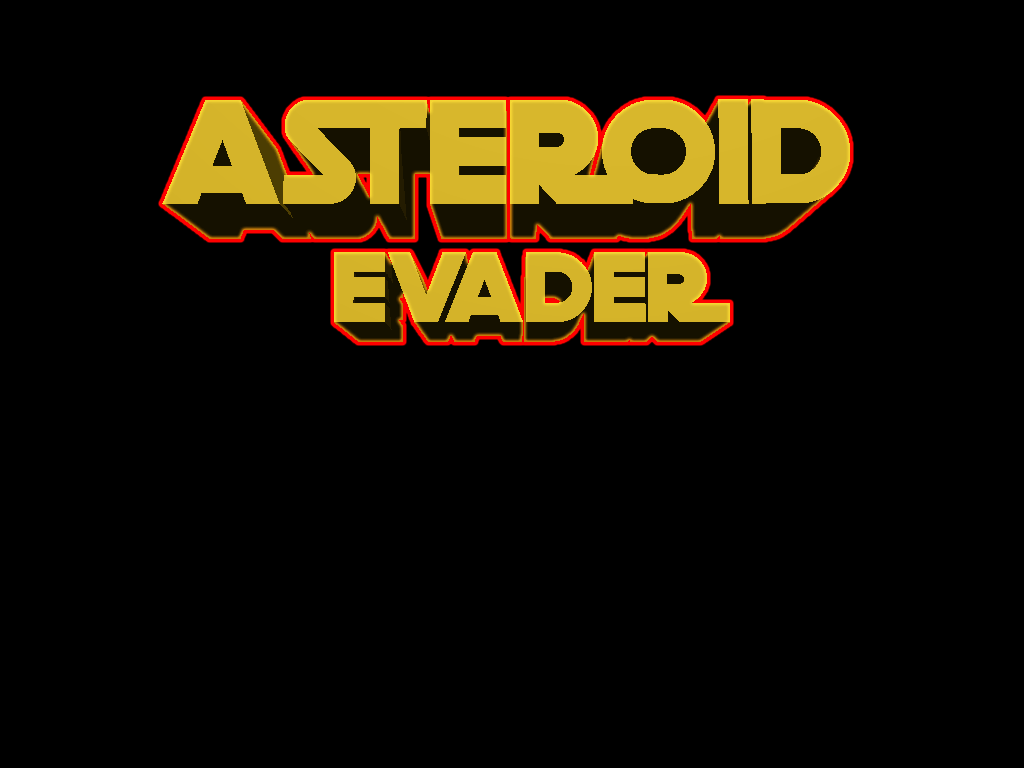
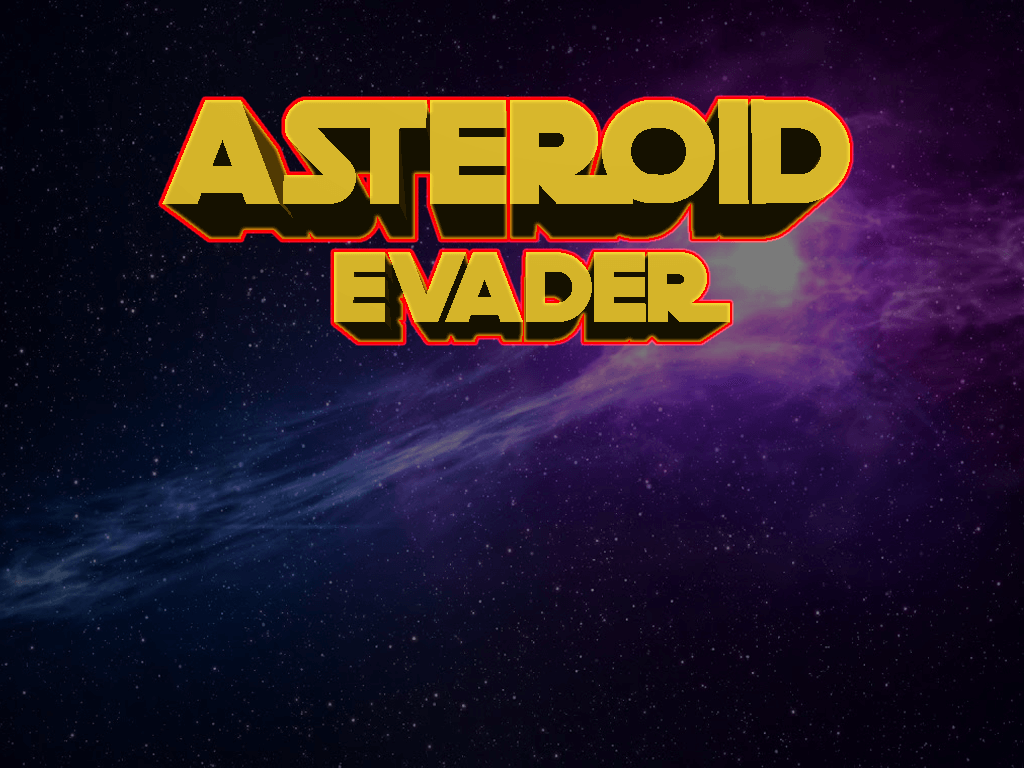
Changed menus to use input manager, added textures per level, added pause menu functionalities

diff --git a/common/application_mode_pause_menu.cpp b/common/application_mode_pause_menu.cpp
@@ -1,61 +1,96 @@
 #include "stdafx.h"
 #include "application_mode_pause_menu.h"
 #include "application_manager.h"
+#include "language_manager.h"
 #include "globals.h"
-ApplicationModePauseMenu::ApplicationModePauseMenu() {
-	texWin = CORE_LoadPNG("../data/main_menu.png", false);
 
+#define MARGIN 35;
+
+ApplicationModePauseMenu::ApplicationModePauseMenu() {
+	texWin = CORE_LoadPNG("../data/pause.png", false);
+	texMark = CORE_LoadPNG("../data/mark.png", false);
+	insertOption("MENU_RESUME", MODE_GAME); 
+	insertOption("MENU_MAIN_MENU", MODE_NULL);
+
+	optionSelected = 0;
 }
 
+void ApplicationModePauseMenu::insertOption(const char* name, appModeId mode)
+{
+
+	if (options.size() > 0)
+	{
+		int newId = options.size();
+		Option newOption(newId, name, mode);
+		options.push_back(newOption);
+	}
+	else
+	{
+		Option newOption(0, name, mode);
+		options.push_back(newOption);
+
+	}
+}
 
 void ApplicationModePauseMenu::render() {
 	// Render
-
 	//glClear(GL_COLOR_BUFFER_BIT);
 
-	// Render Player
-	//CORE_RenderCenteredRotatedSprite(vmake(SCR_WIDTH / 2, SCR_HEIGHT / 2), vmake(SCR_WIDTH, SCR_HEIGHT), 0, texWin);
-	FONT_DrawString(vmake(SCR_WIDTH / 2 - 5 * 16, SCR_HEIGHT / 2 - 25), "PAUSED! PRESS E TO RESUME");
-	/*FONT_DrawString(vmake(SCR_WIDTH / 2 - 5 * 16, SCR_HEIGHT / 2 - 50), "LANGUAGE     (E)");
-	FONT_DrawString(vmake(SCR_WIDTH / 2 - 5 * 16, SCR_HEIGHT / 2 - 75), "BACK         (B)");*/
+	CORE_RenderCenteredRotatedSprite(vmake(SCR_WIDTH / 2, SCR_HEIGHT / 2.25), vmake(SCR_WIDTH/2, SCR_HEIGHT/3), 0, texWin);
+	int pos = MARGIN;
+	int posMark = pos - 7 + optionSelected * MARGIN;
+
+	for (auto optionIt = options.begin(); optionIt != options.end(); ++optionIt) {
+		FONT_DrawString(vmake(SCR_WIDTH / 2 - 5 * 16, SCR_HEIGHT / 2 - pos), languageManager->getString((*optionIt).name));
+		pos += MARGIN;
+	}
+	CORE_RenderCenteredSprite(vmake(SCR_WIDTH / 2 - 6 * 16, SCR_HEIGHT / 2 - posMark), vmake(15, 15), texMark);
+
 	SYS_Show();
 
 
 }
 
-
 void ApplicationModePauseMenu::receiveMessage(Message *msg) {
 	UpMessage *upMsg = dynamic_cast<UpMessage*>(msg);
 	if (upMsg) {
 		if (upMsg->up) {
-			OutputDebugStringA("UP!");
+			optionSelected--;
+			if (optionSelected < 0)
+				optionSelected = 0;
 		}
 	}
 
 	DownMessage *downMsg = dynamic_cast<DownMessage*>(msg);
 	if (downMsg) {
 		if (downMsg->down) {
-			OutputDebugStringA("DOWN!");
+			optionSelected++;
+			if (optionSelected >= options.size())
+				optionSelected = options.size() - 1;
 		}
 	}
 
-	Message *msg_rec = dynamic_cast<AMessage*>(msg);
+	Message *msg_rec = dynamic_cast<ReturnMessage*>(msg);
 	if (msg_rec) {
+		OutputDebugStringA("Return!");
+		//Execute Option Selected!
+		if (options[optionSelected].modeId != MODE_NULL) {
+			
+			appManager->switchMode(options[optionSelected].modeId);
+		}
+		else
+		{
+			if (strcmp(options[optionSelected].name, "MENU_MAIN_MENU") == 0) 
+			{
+				appManager->notPaused();
+				appManager->killGame();
+				appManager->switchMode(MODE_MAIN_MENU);
+			}
 				
+		}
+
 	}
 
-	msg_rec = dynamic_cast<EMessage*>(msg);
-	if (msg_rec) {
-		OutputDebugStringA("Resumed!");
-		appManager->switchMode(MODE_GAME);
-	}
-
-	msg_rec = dynamic_cast<BMessage*>(msg);
-	if (msg_rec) {
-		appManager->switchMode(MODE_MAIN_MENU);
-	}
-
-
-	
 
 }
+

diff --git a/common/application_mode_main_menu.cpp b/common/application_mode_main_menu.cpp
@@ -48,11 +48,6 @@ void ApplicationModeMainMenu::render() {
 		FONT_DrawString(vmake(SCR_WIDTH / 2 - 5 * 16, SCR_HEIGHT / 2 - pos), languageManager->getString((*optionIt).name));
 		pos += MARGIN;
 	}
-	/*FONT_DrawString(vmake(SCR_WIDTH / 2 - 5 * 16, SCR_HEIGHT / 2 - 25), languageManager->getString("MENU_PLAY"));
-	FONT_DrawString(vmake(SCR_WIDTH / 2 - 5 * 16, SCR_HEIGHT / 2 - 50), languageManager->getString("MENU_OPTIONS"));
-	FONT_DrawString(vmake(SCR_WIDTH / 2 - 5 * 16, SCR_HEIGHT / 2 - 75), languageManager->getString("MENU_LEVELS"));
-	FONT_DrawString(vmake(SCR_WIDTH / 2 - 5 * 16, SCR_HEIGHT / 2 - 125),languageManager->getString("MENU_QUIT"));*/
-
 	CORE_RenderCenteredSprite(vmake(SCR_WIDTH / 2 - 6 * 16 , SCR_HEIGHT / 2 - posMark), vmake(15, 15), texMark);
 	SYS_Show();
 
@@ -82,8 +77,9 @@ void ApplicationModeMainMenu::receiveMessage(Message *msg) {
 	if (msg_rec) {
 		OutputDebugStringA("Return!");
 		//Execute Option Selected!
-		if (options[optionSelected].modeId != MODE_NULL)
+		if (options[optionSelected].modeId != MODE_NULL) {
 			appManager->switchMode(options[optionSelected].modeId);
+		}
 		else
 		{
 			if (strcmp(options[optionSelected].name, "MENU_QUIT") == 0)
@@ -92,25 +88,5 @@ void ApplicationModeMainMenu::receiveMessage(Message *msg) {
 
 	}
 
-	/*Message *msg_rec = dynamic_cast<PMessage*>(msg);
-	if (msg_rec) {
-		appManager->switchMode(MODE_GAME);
-	}*/
-
-	/*msg_rec = dynamic_cast<OMessage*>(msg);
-	if (msg_rec) {
-		appManager->switchMode(MODE_OPTION_MENU);
-	}
-
-	msg_rec = dynamic_cast<LMessage*>(msg);
-	if (msg_rec) {
-		appManager->switchMode(MODE_LEVEL_MENU);
-	}
-
-	msg_rec = dynamic_cast<QMessage*>(msg);
-	if (msg_rec) {
-		exit(0);
-	}*/
-	
 
 }

diff --git a/common/application_mode_win.cpp b/common/application_mode_win.cpp
@@ -1,6 +1,7 @@
 #include "stdafx.h"
 #include "application_mode_win.h"
 #include "application_manager.h"
+#include "language_manager.h"
 #include "globals.h"
 ApplicationModeWin::ApplicationModeWin() {
 	texWin = CORE_LoadPNG("../data/game_win.png", false);
@@ -14,21 +15,28 @@ void ApplicationModeWin::render() {
 
 	// Render Player
 	CORE_RenderCenteredRotatedSprite(vmake(SCR_WIDTH / 2, SCR_HEIGHT / 2), vmake(SCR_WIDTH, SCR_HEIGHT), 0, texWin);
+	FONT_DrawString(vmake(SCR_WIDTH / 2 - 15 * 16, SCR_HEIGHT / 2 - 250), languageManager->getString("MENU_NEXT_LEVEL"));
 
 	SYS_Show();
 
 
 }
 
-void ApplicationModeWin::processInput() {
-	if (SYS_KeyPressed(VK_RETURN)) {
+void ApplicationModeWin::receiveMessage(Message *msg) {
 
+
+	Message *msg_rec = dynamic_cast<ReturnMessage*>(msg);
+	if (msg_rec) {
 		appManager->nextLevel();
-		if(appManager->getLevel() < appManager->getLevelAmount())
+		if (appManager->getLevel() < appManager->getLevelAmount())
 			appManager->switchMode(MODE_GAME);
 		else
 			appManager->switchMode(MODE_MAIN_MENU);
+
 	}
 
 
+
+
 }
+

diff --git a/common/application_mode_gameover.cpp b/common/application_mode_gameover.cpp
@@ -1,6 +1,7 @@
 #include "stdafx.h"
 #include "application_mode_gameover.h"
 #include "application_manager.h"
+#include "language_manager.h"
 #include "globals.h"
 ApplicationModeGameOver::ApplicationModeGameOver() {
 	texGameOver = CORE_LoadPNG("../data/game_over_2.png", false);
@@ -14,16 +15,25 @@ void ApplicationModeGameOver::render() {
 
 	// Render Player
 	CORE_RenderCenteredRotatedSprite(vmake(SCR_WIDTH/2,SCR_HEIGHT/2), vmake(SCR_WIDTH , SCR_HEIGHT ),0 , texGameOver);
+	FONT_DrawString(vmake(SCR_WIDTH / 2 - 15 * 16, SCR_HEIGHT / 2 - 100), languageManager->getString("MENU_RESTART"));
 
 	SYS_Show();		
 	
 
 }
 
-void ApplicationModeGameOver::processInput() {
-	if (SYS_KeyPressed(VK_RETURN)) {
+void ApplicationModeGameOver::receiveMessage(Message *msg) {
+	
+
+	Message *msg_rec = dynamic_cast<ReturnMessage*>(msg);
+	if (msg_rec) {
+		OutputDebugStringA("Return!");
+		//Execute Option Selected!
 		appManager->switchMode(MODE_GAME);
+		
 	}
+
+
 
 
 }

diff --git a/common/application_mode_option_menu.cpp b/common/application_mode_option_menu.cpp
@@ -9,6 +9,8 @@
 ApplicationModeOptionMenu::ApplicationModeOptionMenu() {
 	texWin = CORE_LoadPNG("../data/main_menu.png", false);
 	texMark = CORE_LoadPNG("../data/mark.png", false);
+	texUnmuted = CORE_LoadPNG("../data/unmuted.png", false);
+	texMuted = CORE_LoadPNG("../data/muted.png", false);
 	insertOption("MENU_AUDIO", MODE_NULL); //CHANGE!! MAYBE VOID* TO FUNCTION???
 	insertOption("MENU_LANGUAGE", MODE_NULL);
 	insertOption("MENU_BACK", MODE_MAIN_MENU);
@@ -46,6 +48,13 @@ void ApplicationModeOptionMenu::render() {
 		pos += MARGIN;
 	}
 	CORE_RenderCenteredSprite(vmake(SCR_WIDTH / 2 - 6 * 16, SCR_HEIGHT / 2 - posMark), vmake(15, 15), texMark);
+
+	if(appManager->getAudioState())
+		CORE_RenderCenteredRotatedSprite(vmake(SCR_WIDTH / 2 + 20 * 16, SCR_HEIGHT / 2 - 25), vmake(20, 20), 0, texUnmuted);
+
+	else
+		CORE_RenderCenteredRotatedSprite(vmake(SCR_WIDTH / 2 + 20 * 16, SCR_HEIGHT / 2 - 25), vmake(20, 20), 0, texMuted);
+
 
 	SYS_Show();
 

diff --git a/common/input_manager.cpp b/common/input_manager.cpp
@@ -84,36 +84,6 @@ void InputManager::processInput() {
 		appManager->sendMessage(&msg);
 	}
 
-	/*if (SYS_KeyPressed((int)VkKeyScanA('p'))) {
-		PMessage msg;
-		appManager->sendMessage(&msg);
-	}
-	if (SYS_KeyPressed((int)VkKeyScanA('o'))) {
-		OMessage msg;
-		appManager->sendMessage(&msg);
-	}
-	if (SYS_KeyPressed((int)VkKeyScanA('l'))) {
-		LMessage msg;
-		appManager->sendMessage(&msg);
-	}
-	if (SYS_KeyPressed((int)VkKeyScanA('q'))) {
-		QMessage msg;
-		appManager->sendMessage(&msg);
-	}
-	if (SYS_KeyPressed((int)VkKeyScanA('a'))) {
-		AMessage msg;
-		appManager->sendMessage(&msg);
-	}
-	if (SYS_KeyPressed((int)VkKeyScanA('e'))) {
-		EMessage msg;
-		appManager->sendMessage(&msg);
-	}
-	if (SYS_KeyPressed((int)VkKeyScanA('b'))) {
-		BMessage msg;
-		appManager->sendMessage(&msg);
-	}*/
-	
-
 }
 
 bool InputManager::checkReleased(const char* key) 

diff --git a/common/application_manager.h b/common/application_manager.h
@@ -20,6 +20,7 @@ private:
 public:
 	ApplicationManager() { activeModeId = MODE_IDLE; audioState = true; currentLevel = 0; paused = false; levelAmount = 0; }
 	void switchAudio() { audioState = (!audioState); }
+	bool getAudioState() { return audioState; }
 	int  getLevel() { return currentLevel; }
 	void setLevel(int level) { currentLevel = level; }
 	void setLevelAmount(int num) { levelAmount = num; }
@@ -27,6 +28,7 @@ public:
 	void nextLevel() { currentLevel++; }
 	void pause() { paused = true; }
 	void notPaused() { paused = false; }
+	void killGame() { if(game)delete(game); }
 
 	void switchMode(appModeId id) {
 

diff --git a/common/application_mode_gameover.h b/common/application_mode_gameover.h
@@ -1,6 +1,7 @@
 #pragma once
 #include "application_mode.h"
 #include "game.h"
+#include "input_manager.h"
 #include "globals.h"
 
 class ApplicationModeGameOver :public ApplicationMode {
@@ -12,7 +13,7 @@ public:
 	ApplicationModeGameOver();
 	void run() {}
 	void render();
-	void processInput();
-	void sendMessage(Message *msg) {}
-
+	void processInput() { inputManager->processInput(); }
+	void sendMessage(Message *msg) { receiveMessage(msg); }
+	void receiveMessage(Message *msg);
 };

diff --git a/common/application_mode_win.h b/common/application_mode_win.h
@@ -2,6 +2,7 @@
 #include "application_mode.h"
 #include "game.h"
 #include "globals.h"
+#include "input_manager.h"
 
 class ApplicationModeWin :public ApplicationMode {
 private:
@@ -12,6 +13,7 @@ public:
 	ApplicationModeWin();
 	void run() {}
 	void render();
-	void processInput();
-	void sendMessage(Message *msg) {}
+	void processInput() { inputManager->processInput(); }
+	void sendMessage(Message *msg) { receiveMessage(msg); }
+	void receiveMessage(Message *msg);
 };

diff --git a/common/application_mode_pause_menu.h b/common/application_mode_pause_menu.h
@@ -7,10 +7,14 @@
 class ApplicationModePauseMenu :public ApplicationMode {
 private:
 	GLuint texWin;
-	float bkgHeight;
-	float bkgWidth;
+	GLuint				texMark;
+	float				bkgHeight;
+	float				bkgWidth;
+	std::vector<Option> options;
+	int					optionSelected;
 public:
 	ApplicationModePauseMenu();
+	void insertOption(const char* name, appModeId mode);
 	void run() {}
 	void render();
 	void processInput() { inputManager->processInput(); };

diff --git a/common/application_mode_option_menu.h b/common/application_mode_option_menu.h
@@ -8,6 +8,8 @@ class ApplicationModeOptionMenu :public ApplicationMode {
 private:
 	GLuint				texWin;
 	GLuint				texMark;
+	GLuint				texMuted;
+	GLuint				texUnmuted;
 	float				bkgHeight;
 	float				bkgWidth;
 	std::vector<Option> options;

diff --git a/common/application_mode_level_menu.cpp b/common/application_mode_level_menu.cpp
@@ -80,8 +80,6 @@ void ApplicationModeLevelMenu::receiveMessage(Message *msg) {
 		appManager->setLevel(optionSelected);
 		appManager->switchMode(options[optionSelected].modeId);
 	}
-
-	
 	
 
 }
